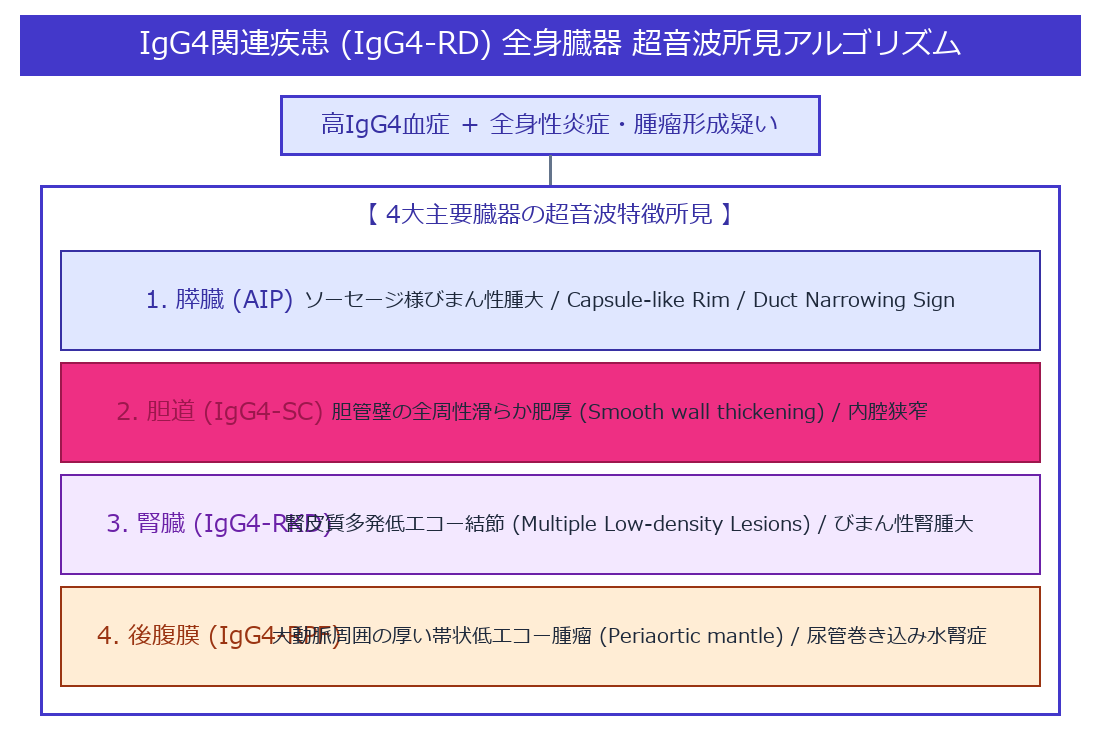
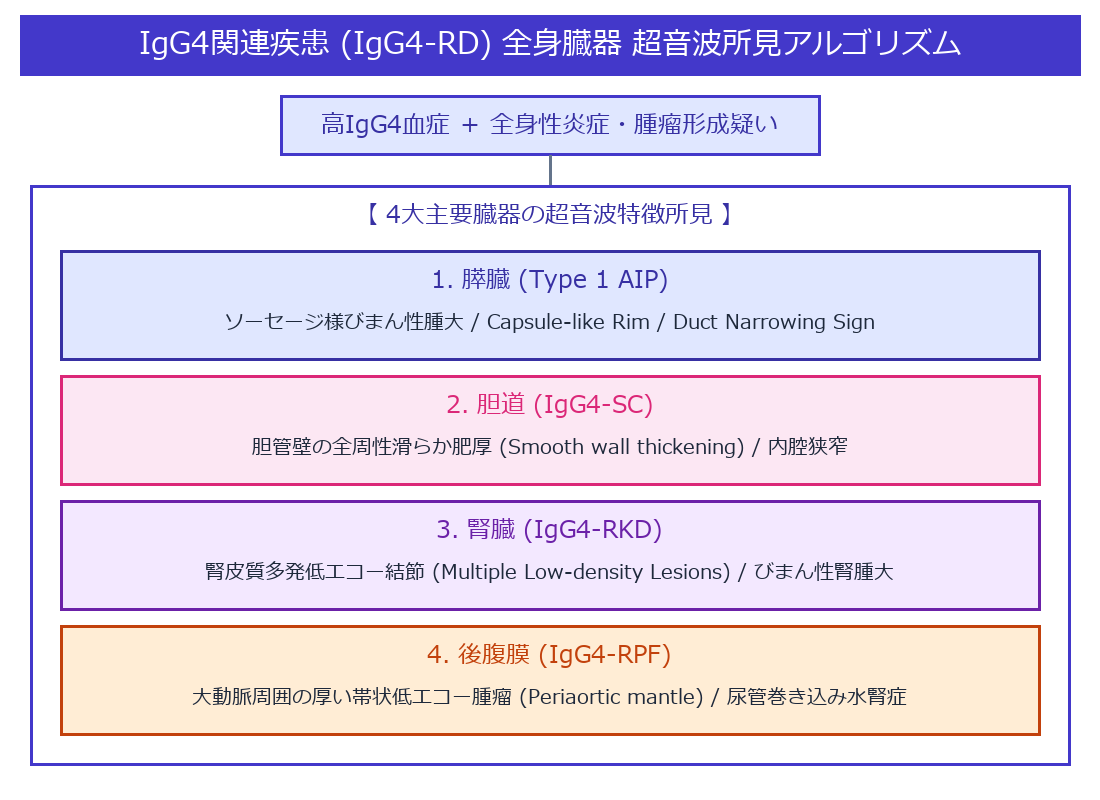
Fix text overlapping issues in IgG4-RD flowchart and 7-Section MOC map PNGs by splitting titles and descriptions into separate rows

Changed region(s): [[0.0309, 0.0307, 0.9891, 0.9813]]

diff --git a/generate_fixed_no_overlap_images.py b/generate_fixed_no_overlap_images.py
@@ -1,0 +1,126 @@
+import os
+from PIL import Image, ImageDraw, ImageFont
+
+font_title = font_large = font_mid = font_small = None
+font_paths = ["C:/Windows/Fonts/meiryo.ttc", "C:/Windows/Fonts/msgothic.ttc", "C:/Windows/Fonts/arial.ttf"]
+
+for fp in font_paths:
+    if os.path.exists(fp):
+        try:
+            font_title = ImageFont.truetype(fp, 30)
+            font_large = ImageFont.truetype(fp, 24)
+            font_mid = ImageFont.truetype(fp, 20)
+            font_small = ImageFont.truetype(fp, 17)
+            break
+        except Exception:
+            continue
+
+if font_title is None:
+    font_title = font_large = font_mid = font_small = ImageFont.load_default()
+
+img_dir = r"C:\Antigravity\超音波検査\腹部超音波検査_教科書\03_diseases\images"
+os.makedirs(img_dir, exist_ok=True)
+
+# Helper function to draw perfectly non-overlapping centered text inside tight boxes
+def draw_two_line_box(draw, box, fill_bg, outline_c, title, desc_text, title_color=None):
+    x1, y1, x2, y2 = box
+    draw.rectangle(box, fill=fill_bg, outline=outline_c, width=3)
+    
+    t_c = title_color if title_color else outline_c
+    cx = (x1 + x2) // 2
+    
+    # Title at top half, desc at bottom half (Zero overlap guaranteed)
+    draw.text((cx, y1 + 30), title, fill=t_c, font=font_large, anchor="mm")
+    draw.text((cx, y1 + 72), desc_text, fill="#1e293b", font=font_mid, anchor="mm")
+
+# 1. IgG4-RD Flowchart (Fixed Overlap Completely)
+def make_igg4_flow_fixed():
+    w, h = 1100, 800
+    img = Image.new("RGB", (w, h), (255, 255, 255))
+    draw = ImageDraw.Draw(img)
+    
+    # Header
+    draw.rectangle([(20, 15), (1080, 75)], fill="#4338ca")
+    draw.text((550, 45), "IgG4関連疾患 (IgG4-RD) 全身臓器 超音波所見アルゴリズム", fill="#ffffff", font=font_title, anchor="mm")
+    
+    # Level 1 Root
+    draw.rectangle([(280, 95), (820, 155)], fill="#e0e7ff", outline="#4338ca", width=3)
+    draw.text((550, 125), "高IgG4血症 ＋ 全身性炎症・腫瘤形成疑い", fill="#3730a3", font=font_large, anchor="mm")
+    
+    draw.line([(550, 155), (550, 185)], fill="#64748b", width=3)
+    
+    # Level 2 Container
+    draw.rectangle([(30, 185), (1070, 765)], fill="#ffffff", outline="#4338ca", width=3)
+    draw.text((550, 215), "【 4大主要臓器の超音波特徴所見 】", fill="#3730a3", font=font_large, anchor="mm")
+    
+    organs = [
+        ("1. 膵臓 (Type 1 AIP)", "ソーセージ様びまん性腫大 / Capsule-like Rim / Duct Narrowing Sign", "#e0e7ff", "#3730a3"),
+        ("2. 胆道 (IgG4-SC)", "胆管壁の全周性滑らか肥厚 (Smooth wall thickening) / 内腔狭窄", "#fce7f3", "#db2777"),
+        ("3. 腎臓 (IgG4-RKD)", "腎皮質多発低エコー結節 (Multiple Low-density Lesions) / びまん性腎腫大", "#f3e8ff", "#6b21a8"),
+        ("4. 後腹膜 (IgG4-RPF)", "大動脈周囲の厚い帯状低エコー腫瘤 (Periaortic mantle) / 尿管巻き込み水腎症", "#ffedd5", "#c2410c")
+    ]
+    
+    y = 250
+    for title, desc, bg_c, text_c in organs:
+        draw_two_line_box(draw, (60, y, 1040, y + 110), bg_c, text_c, title, desc, title_color=text_c)
+        y += 125
+        
+    path = os.path.join(img_dir, "igg4_rd_flowchart.png")
+    img.save(path, quality=95)
+    print("Fixed Overlap: igg4_rd_flowchart.png generated successfully!")
+
+# 2. 7-Section MOC Map (Fixed Overlap Completely)
+def make_7section_moc_map_fixed():
+    w, h = 1100, 1050
+    img = Image.new("RGB", (w, h), (255, 255, 255))
+    draw = ImageDraw.Draw(img)
+    
+    # Top Header
+    draw.rectangle([(20, 15), (1080, 70)], fill="#1e3a8a")
+    draw.text((550, 42), "腹部超音波検査 教科書 (Abdominal US Vault 7-Section Structure)", fill="#ffffff", font=font_title, anchor="mm")
+    
+    # Level 1 Root
+    draw.rectangle([(320, 90), (780, 140)], fill="#f1f5f9", outline="#1e3a8a", width=3)
+    draw.text((550, 115), "腹部超音波 Master Index", fill="#1e293b", font=font_large, anchor="mm")
+    
+    # Level 2 Chapters
+    chaps = [
+        ("01. 基本事項・走査法", 40),
+        ("02. 臓器別標準解剖", 300),
+        ("03. 疾患別超音波所見", 560),
+        ("04. 計測手技マニュアル", 820)
+    ]
+    
+    draw.line([(550, 140), (550, 165)], fill="#64748b", width=3)
+    draw.line([(160, 165), (940, 165)], fill="#64748b", width=3)
+    
+    for title, cx in chaps:
+        draw.line([(cx + 120, 165), (cx + 120, 190)], fill="#64748b", width=3)
+        draw.rectangle([(cx, 190), (cx + 240, 240)], fill="#e2e8f0", outline="#475569", width=2)
+        draw.text((cx + 120, 215), title, fill="#1e293b", font=font_mid, anchor="mm")
+        
+    draw.line([(680, 240), (680, 265)], fill="#64748b", width=3)
+    
+    # Level 3 Main Outer Box
+    draw.rectangle([(30, 265), (1070, 1020)], fill="#f8fafc", outline="#2563eb", width=3)
+    draw.text((550, 295), "【 03. 疾患別超音波所見 (全7領域 臨床標準ソート) 】", fill="#1e40af", font=font_large, anchor="mm")
+    
+    grid_items = [
+        ("1. 肝臓領域 (Liver)", "・脂肪肝 / 肝硬変 (ATI / SWE)  ・肝細胞がん / 血管腫 / 転移性", 50, 330, 490),
+        ("2. 胆道領域 (Biliary)", "・胆石症 (WES sign)  ・急性胆嚢炎 / ポリープ / ADM", 560, 330, 490),
+        ("3. 膵臓領域 (Pancreas)", "・固形 vs 嚢胞性 完全分類  ・膵がん / IPMN / 膵炎", 50, 500, 490),
+        ("4. 腎臓領域 (Renal)", "・水腎症 (SFU Grade 1〜4)  ・尿路結石 (Twinkling)", 560, 500, 490),
+        ("5. 脾臓領域 (Spleen)", "・脾腫 (Splenomegaly)  ・脾指数 (Spleen Index ≧ 20)", 50, 670, 490),
+        ("6. 消化管・血管領域", "・急性虫垂炎 / 腸閉塞  ・腹部大動脈瘤 / ナットクラッカー / MALS", 560, 670, 490),
+        ("7. その他・全身性疾患 (Others & Systemic)", "・IgG4関連疾患 (IgG4-RD: 自己免疫性膵炎 AIP / 硬化性胆管炎 SC / 腎病変 RKD / 後腹膜 RPF)", 50, 840, 1000)
+    ]
+    
+    for title, desc, x, y, box_w in grid_items:
+        draw_two_line_box(draw, (x, y, x + box_w, y + 145), "#ffffff", "#3b82f6", title, desc, title_color="#1e3a8a")
+
+    path = os.path.join(img_dir, "master_index_map.png")
+    img.save(path, quality=95)
+    print("Fixed Overlap: master_index_map.png generated successfully!")
+
+make_igg4_flow_fixed()
+make_7section_moc_map_fixed()
